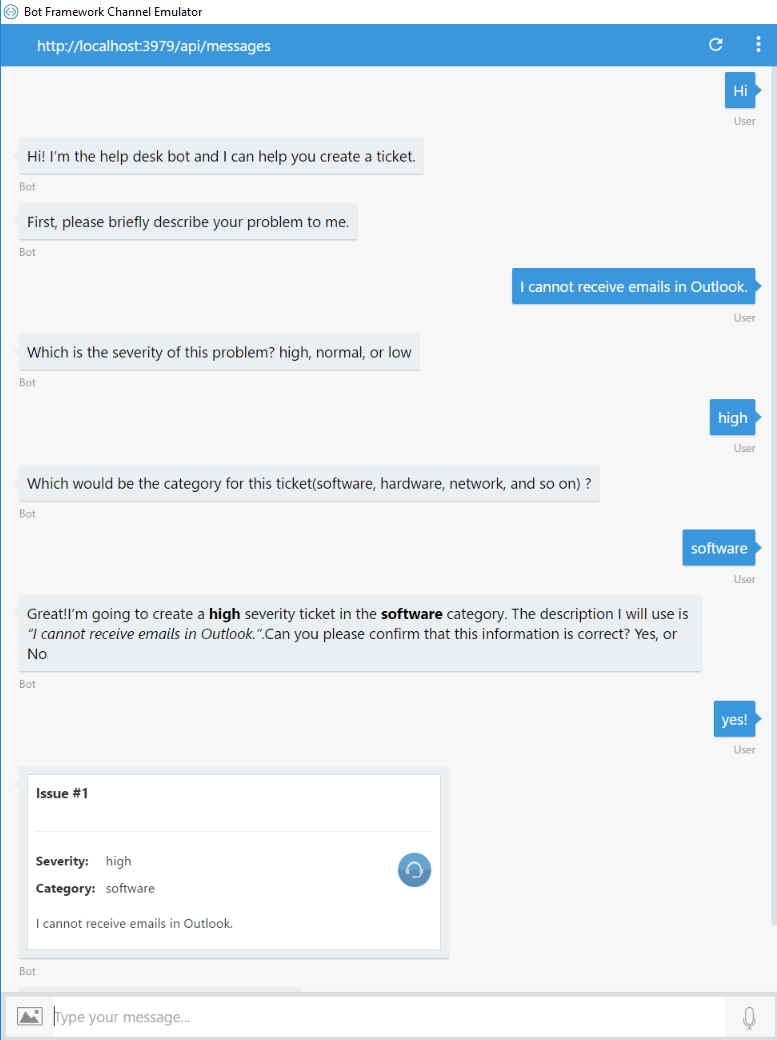
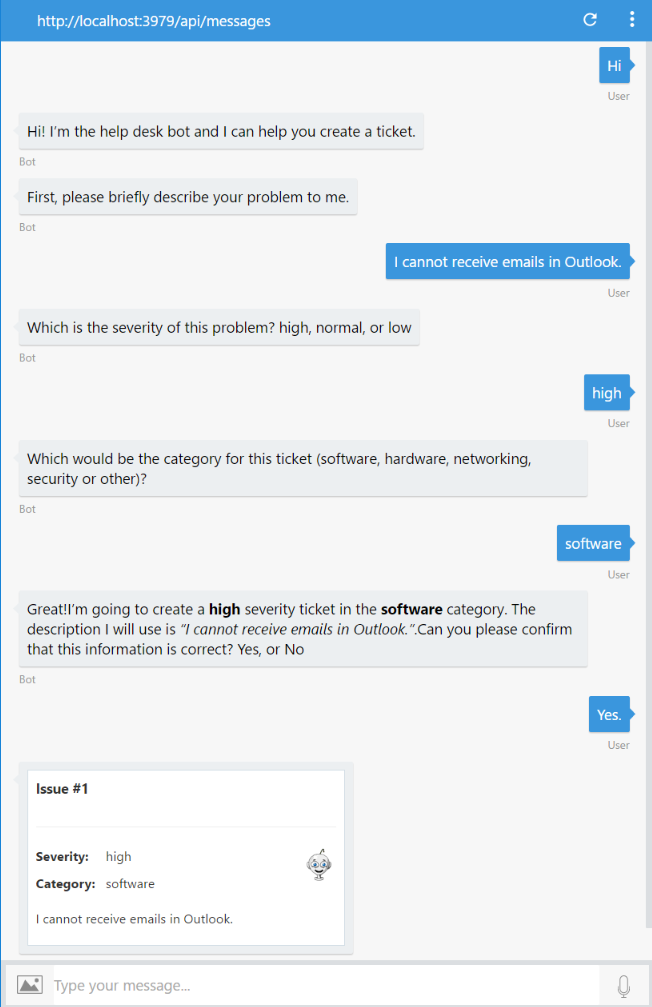
Change AdaptiveCard image.

diff --git a/CSharp/exercise4-KnowledgeBase/Dialogs/RootDialog.cs b/CSharp/exercise4-KnowledgeBase/Dialogs/RootDialog.cs
@@ -10,7 +10,7 @@
     using Microsoft.Bot.Connector;
     using Util;
 
-    [LuisModel("c7637a36-6a94-4c15-9943-c25463eb3db6", "833c9b1fa49044c9ab07c79a908639a4")]
+    [LuisModel("28d25e16-357f-42bf-97f5-fd2bda5fca5f", "1aa58c804a56499c8f706e88158d7704")]
     [Serializable]
     public class RootDialog : LuisDialog<object>
     {
@@ -29,9 +29,24 @@
         [LuisIntent("Help")]
         public async Task Help(IDialogContext context, LuisResult result)
         {
-            await context.PostAsync("I'm the help desk bot and I can help you create a ticket or explore the knowledge base.\n" +
-                                    "You can tell me things like _I need to reset my password_ or _explore hardware articles_.");
-            context.Done<object>(null);
+            var message = context.MakeMessage();
+            message.Attachments = new List<Attachment>
+            {
+                new ThumbnailCard
+                {
+                    Title = "BotFramework Thumbnail Card",
+                    Subtitle = "Your bots — wherever your users are talking",
+                    Text = "Build and connect intelligent bots to interact with your users naturally wherever they are, from text/sms to Skype, Slack, Office 365 mail and other popular services.",
+                    Images = new List<CardImage> { new CardImage("https://raw.githubusercontent.com/sGambolati/VuforiaImageRecognition/master/Assets/head-smiling-small.png") },
+                    Buttons = new List<CardAction> { new CardAction(ActionTypes.OpenUrl, "Get Started", value: "https://docs.microsoft.com/bot-framework") }
+                }.ToAttachment()
+            };
+            await context.PostAsync(message);
+
+
+            //await context.PostAsync("I'm the help desk bot and I can help you create a ticket or explore the knowledge base.\n" +
+            //                        "You can tell me things like _I need to reset my password_ or _explore hardware articles_.");
+            //context.Done<object>(null);
         }
 
         [LuisIntent("SubmitTicket")]
@@ -170,7 +185,7 @@
                         {
                             new Image
                             {
-                                Url = "http://i.imgur.com/WPdnJg8.png",
+                                Url = "https://raw.githubusercontent.com/GeekTrainer/help-desk-bot-lab/develop/assets/botimages/head-smiling-medium.png",
                                 Size = ImageSize.Small,
                                 HorizontalAlignment = HorizontalAlignment.Right
                             }

diff --git a/CSharp/exercise2-TicketSubmissionDialog/Dialogs/RootDialog.cs b/CSharp/exercise2-TicketSubmissionDialog/Dialogs/RootDialog.cs
@@ -126,7 +126,7 @@
                         {
                             new Image
                             {
-                                Url = "http://i.imgur.com/WPdnJg8.png",
+                                Url = "https://raw.githubusercontent.com/GeekTrainer/help-desk-bot-lab/develop/assets/botimages/head-smiling-medium.png",
                                 Size = ImageSize.Small,
                                 HorizontalAlignment = HorizontalAlignment.Right
                             }

diff --git a/CSharp/exercise3-LuisDialog/Dialogs/RootDialog.cs b/CSharp/exercise3-LuisDialog/Dialogs/RootDialog.cs
@@ -155,7 +155,7 @@
                         {
                             new Image
                             {
-                                Url = "http://i.imgur.com/WPdnJg8.png",
+                                Url = "https://raw.githubusercontent.com/GeekTrainer/help-desk-bot-lab/develop/assets/botimages/head-smiling-medium.png",
                                 Size = ImageSize.Small,
                                 HorizontalAlignment = HorizontalAlignment.Right
                             }

diff --git a/CSharp/exercise6-MoodDetetion/Dialogs/RootDialog.cs b/CSharp/exercise6-MoodDetetion/Dialogs/RootDialog.cs
@@ -171,7 +171,7 @@
                         {
                             new Image
                             {
-                                Url = "http://i.imgur.com/WPdnJg8.png",
+                                Url = "https://raw.githubusercontent.com/GeekTrainer/help-desk-bot-lab/develop/assets/botimages/head-smiling-medium.png",
                                 Size = ImageSize.Small,
                                 HorizontalAlignment = HorizontalAlignment.Right
                             }

diff --git a/CSharp/exercise7-HandOffToHuman/Dialogs/RootDialog.cs b/CSharp/exercise7-HandOffToHuman/Dialogs/RootDialog.cs
@@ -189,7 +189,7 @@
                         {
                             new Image
                             {
-                                Url = "http://i.imgur.com/WPdnJg8.png",
+                                Url = "https://raw.githubusercontent.com/GeekTrainer/help-desk-bot-lab/develop/assets/botimages/head-smiling-medium.png",
                                 Size = ImageSize.Small,
                                 HorizontalAlignment = HorizontalAlignment.Right
                             }

diff --git a/CSharp/exercise8-BackChannel/Dialogs/RootDialog.cs b/CSharp/exercise8-BackChannel/Dialogs/RootDialog.cs
@@ -208,7 +208,7 @@
                         {
                             new Image
                             {
-                                Url = "http://i.imgur.com/WPdnJg8.png",
+                                Url = "https://raw.githubusercontent.com/GeekTrainer/help-desk-bot-lab/develop/assets/botimages/head-smiling-medium.png",
                                 Size = ImageSize.Small,
                                 HorizontalAlignment = HorizontalAlignment.Right
                             }

diff --git a/CSharp/exercise2-TicketSubmissionDialog.md b/CSharp/exercise2-TicketSubmissionDialog.md
@@ -248,7 +248,7 @@ In this task you will enhance the confirmation message that is shown to the user
                     {
                         new Image
                         {
-                            Url = "http://i.imgur.com/WPdnJg8.png",
+                            Url = "https://raw.githubusercontent.com/GeekTrainer/help-desk-bot-lab/develop/assets/botimages/head-smiling-medium.png",
                             Size = ImageSize.Small,
                             HorizontalAlignment = HorizontalAlignment.Right
                         }
